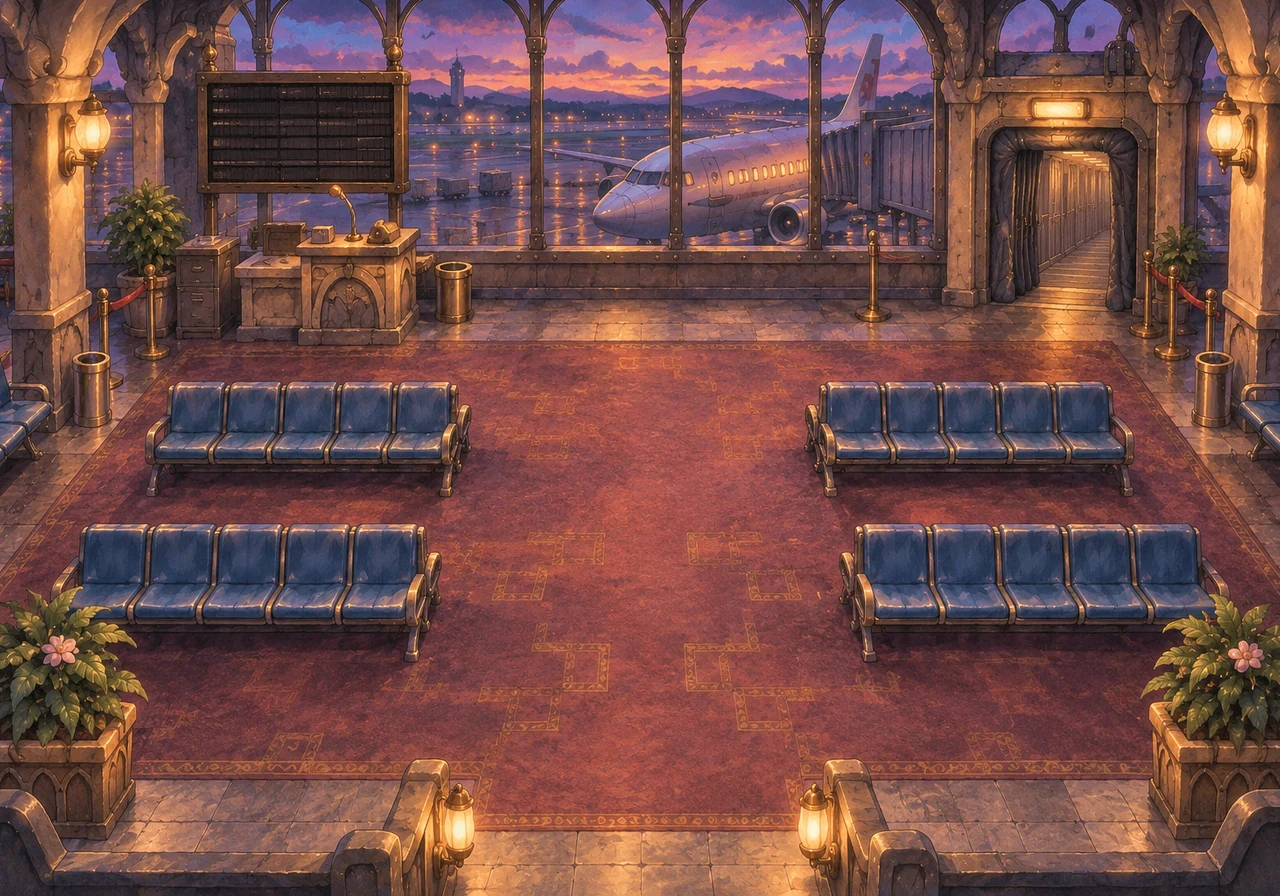
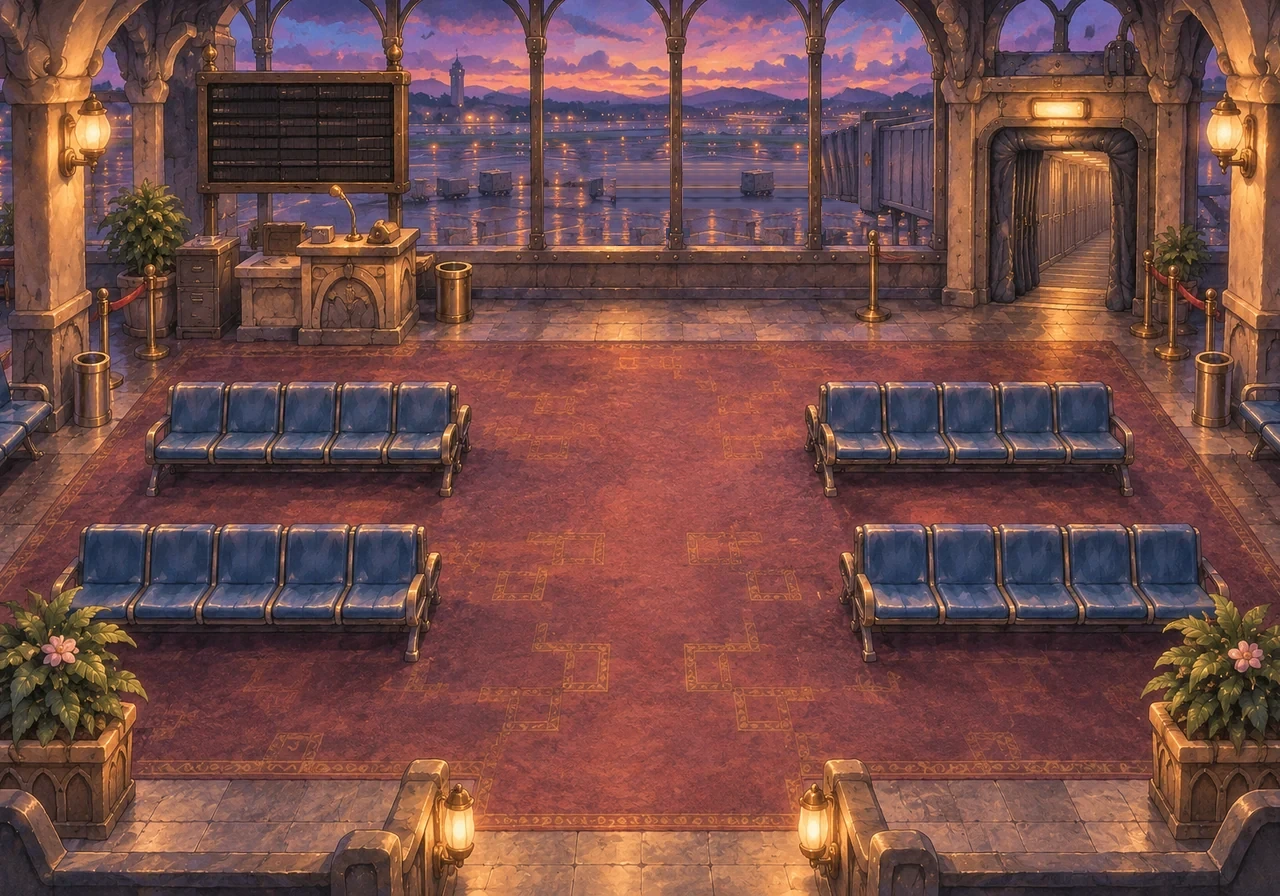
gatezero: Gate Zero window is empty and Flight Zero rolls away at the end of chapter 10
Kept the current painting (Tom's choice on t-gatezero-decide), painted the plane out,
plane and window frames are separate layers drawn under the people.

Claude-Session: https://claude.ai/code/session_01RXeukESVQibHd96DoCq68m

Changed region(s): [[0.4062, 0.0312, 0.7188, 0.2812]]

diff --git a/engine/plate.js b/engine/plate.js
@@ -1,7 +1,7 @@
 'use strict';
 // engine/plate.js — Painted "plate" scenes (32-bit look). A plate replaces the tile/house/object
 // drawing for one map; the tile grid stays as the invisible logic layer (collision, doors, exits, NPCs).
-const PLATES={ town:{src:'art/town.webp?v=square6',fgSrc:'art/town-fg.webp?v=towncut1',px:64,img:null,ready:false}, row:{src:'art/row.webp?v=row4',fgSrc:'art/row-fg.webp?v=row4',px:64,img:null,ready:false}, hollow:{src:'art/hollow.webp?v=hollow5',fgSrc:'art/hollow-fg.webp?v=hollow5',px:64,img:null,ready:false}, reeds:{src:'art/reeds.webp',px:64,img:null,ready:false}, amyhouse:{src:'art/amyhouse.webp?v=20261030',px:78,img:null,ready:false,square:true,fgSrc:'art/amyhouse-fg.webp?v=amyhouse3d'}, grands:{src:'art/grands.webp?v=20261030',px:78,img:null,ready:false,square:true,fgSrc:'art/grands-fg.webp?v=facing2'}, elliehouse:{src:'art/elliehouse.webp?v=20261030',px:78,img:null,ready:false,square:true}, sundial:{src:'art/sundial.webp',px:64,img:null,ready:false}, school:{src:'art/school.webp',px:64,img:null,ready:false}, cafetorium:{src:'art/cafetorium.webp',px:64,img:null,ready:false}, readroom:{src:'art/readroom.webp',px:64,img:null,ready:false}, stacks:{src:'art/stacks.webp',px:64,img:null,ready:false}, moonclub:{src:'art/moonclub.webp?v=moonclub1',fgSrc:'art/moonclub-fg.webp?v=moonclub1',px:64,img:null,ready:false}, dome:{src:'art/dome.webp?v=dome2',fgSrc:'art/dome-fg.webp?v=dome2',px:64,img:null,ready:false}, gatezero:{src:'art/gatezero.webp?v=airport1',fgSrc:'art/gatezero-fg.webp?v=airport1',px:64,img:null,ready:false}, library:{src:'art/library.webp?v=20261030',px:78,img:null,ready:false,square:true}, terminal:{src:'art/terminal.webp?v=airport1',fgSrc:'art/terminal-fg.webp?v=airport1',px:64,img:null,ready:false}, bakery:{src:'art/bakery.webp?v=20261030',px:78,img:null,ready:false,square:true}, greenhouse:{src:'art/greenhouse.webp?v=20261030',px:78,img:null,ready:false,square:true}, shop:{src:'art/shop.webp?v=20261030',px:78,img:null,ready:false,square:true}, observatory:{src:'art/observatory.webp?v=20261030',px:78,img:null,ready:false,square:true}, post:{src:'art/post.webp?v=20261030',px:78,img:null,ready:false,square:true}, tea:{src:'art/tea.webp?v=20261030',px:78,img:null,ready:false,square:true}, jpark:{src:'art/jpark.webp?v=jpark2',fgSrc:'art/jpark-fg.webp?v=jpark2',px:64,img:null,ready:false}, griffith:{src:'art/griffith.webp?v=griffith2',fgSrc:'art/griffith-fg.webp?v=griffith2',px:64,img:null,ready:false}, taxi:{src:'art/taxi.webp?v=20261030',px:78,img:null,ready:false,square:true}, blvd:{src:'art/blvd.webp?v=dtla12',fgSrc:'art/blvd-fg.webp?v=dtla12',px:64,img:null,ready:false} };
+const PLATES={ town:{src:'art/town.webp?v=square6',fgSrc:'art/town-fg.webp?v=towncut1',px:64,img:null,ready:false}, row:{src:'art/row.webp?v=row4',fgSrc:'art/row-fg.webp?v=row4',px:64,img:null,ready:false}, hollow:{src:'art/hollow.webp?v=hollow5',fgSrc:'art/hollow-fg.webp?v=hollow5',px:64,img:null,ready:false}, reeds:{src:'art/reeds.webp',px:64,img:null,ready:false}, amyhouse:{src:'art/amyhouse.webp?v=20261030',px:78,img:null,ready:false,square:true,fgSrc:'art/amyhouse-fg.webp?v=amyhouse3d'}, grands:{src:'art/grands.webp?v=20261030',px:78,img:null,ready:false,square:true,fgSrc:'art/grands-fg.webp?v=facing2'}, elliehouse:{src:'art/elliehouse.webp?v=20261030',px:78,img:null,ready:false,square:true}, sundial:{src:'art/sundial.webp',px:64,img:null,ready:false}, school:{src:'art/school.webp',px:64,img:null,ready:false}, cafetorium:{src:'art/cafetorium.webp',px:64,img:null,ready:false}, readroom:{src:'art/readroom.webp',px:64,img:null,ready:false}, stacks:{src:'art/stacks.webp',px:64,img:null,ready:false}, moonclub:{src:'art/moonclub.webp?v=moonclub1',fgSrc:'art/moonclub-fg.webp?v=moonclub1',px:64,img:null,ready:false}, dome:{src:'art/dome.webp?v=dome2',fgSrc:'art/dome-fg.webp?v=dome2',px:64,img:null,ready:false}, gatezero:{src:'art/gatezero.webp?v=gatezero1',fgSrc:'art/gatezero-fg.webp?v=airport1',px:64,img:null,ready:false}, library:{src:'art/library.webp?v=20261030',px:78,img:null,ready:false,square:true}, terminal:{src:'art/terminal.webp?v=airport1',fgSrc:'art/terminal-fg.webp?v=airport1',px:64,img:null,ready:false}, bakery:{src:'art/bakery.webp?v=20261030',px:78,img:null,ready:false,square:true}, greenhouse:{src:'art/greenhouse.webp?v=20261030',px:78,img:null,ready:false,square:true}, shop:{src:'art/shop.webp?v=20261030',px:78,img:null,ready:false,square:true}, observatory:{src:'art/observatory.webp?v=20261030',px:78,img:null,ready:false,square:true}, post:{src:'art/post.webp?v=20261030',px:78,img:null,ready:false,square:true}, tea:{src:'art/tea.webp?v=20261030',px:78,img:null,ready:false,square:true}, jpark:{src:'art/jpark.webp?v=jpark2',fgSrc:'art/jpark-fg.webp?v=jpark2',px:64,img:null,ready:false}, griffith:{src:'art/griffith.webp?v=griffith2',fgSrc:'art/griffith-fg.webp?v=griffith2',px:64,img:null,ready:false}, taxi:{src:'art/taxi.webp?v=20261030',px:78,img:null,ready:false,square:true}, blvd:{src:'art/blvd.webp?v=dtla12',fgSrc:'art/blvd-fg.webp?v=dtla12',px:64,img:null,ready:false} };
 PLATES.pier={src:'art/pier.webp?v=20261029',px:64,img:null,ready:false};
 PLATES.studio={src:'art/studio.webp?v=20261029',px:64,img:null,ready:false};
 PLATES.backlot={src:'art/backlot.webp?v=20261029',px:64,img:null,ready:false};
@@ -526,6 +526,7 @@ function plateLive(map,time) {
   if(map&&PLATE_SIGNS[map.id]) drawPlateSigns(PLATE_SIGNS[map.id]);
   if(map&&map.id==='hollow') { drawHollowSpot(); }
   if(map&&map.id==='griffith') drawGriffithSpot();
+  if(map&&map.id==='gatezero'&&typeof gatePlaneDraw==='function') gatePlaneDraw(time);   // Flight Zero outside the window until it rolls away (data/scenes.js)
   if(map&&map.id==='sundial') drawSundialSpot(map);
   if(map&&map.id==='stage7') drawStage7Spot(map);
   if(map&&map.id==='schoolyard') drawSchoolSpot(map);

diff --git a/data/scenes.js b/data/scenes.js
@@ -5143,6 +5143,29 @@ pressAction=function() {
 // Terminal Zero is dim until the clocks start (lamp light round Tom); Gate Zero shows Flight 0 through the window
 // until it pushes back and rolls away.
 const CH10_PLANE={t0:0};
+// Flight Zero outside the Gate Zero window. art/gatezero.webp is the room with the window empty (the apron, no plane); the plane (art/gatezero-plane.webp)
+// and the window frames and jet bridge that stand in front of it (art/gatezero-frame.webp) are drawn over it, same place and size as the first painting
+// (art px, plate 1280 x 896). While it leaves, the plane eases left behind the frames and is clipped to the window opening (it passes behind the board).
+// Drawn from plateLive (engine/plate.js), under the people.
+const GATE_PLANE_IMG={plane:null,frame:null,box:{plane:[516,31],frame:[524,49]}};
+function gatePlaneImgs() {
+  if(!GATE_PLANE_IMG.plane) { GATE_PLANE_IMG.plane=new Image(); GATE_PLANE_IMG.plane.src='art/gatezero-plane.webp?v=gatezero1'; GATE_PLANE_IMG.frame=new Image(); GATE_PLANE_IMG.frame.src='art/gatezero-frame.webp?v=gatezero1'; }
+  return GATE_PLANE_IMG.plane.complete&&GATE_PLANE_IMG.plane.naturalWidth&&GATE_PLANE_IMG.frame.complete&&GATE_PLANE_IMG.frame.naturalWidth;
+}
+function gatePlaneDraw(time) {
+  const gone=STORY.mode==='full'&&(STORY.chapter>10||!!flag('ch10-gone'));
+  const leaving=CH10_PLANE.t0?(performance.now()-CH10_PLANE.t0)/1000:0;
+  if(gone&&!(leaving>0&&leaving<4)) return;
+  if(!gatePlaneImgs()) return;
+  const s=T/64,c=gfx,dx=-leaving*leaving*46,[px,py]=GATE_PLANE_IMG.box.plane,[fx,fy]=GATE_PLANE_IMG.box.frame;
+  c.save(); c.beginPath(); c.rect(412*s,0,(940-412)*s,250*s); c.clip();
+  c.imageSmoothingEnabled=true; c.imageSmoothingQuality='high';
+  c.drawImage(GATE_PLANE_IMG.plane,(px+dx)*s,py*s,GATE_PLANE_IMG.plane.naturalWidth*s,GATE_PLANE_IMG.plane.naturalHeight*s);
+  c.restore();
+  c.save(); c.imageSmoothingEnabled=true; c.imageSmoothingQuality='high';
+  c.drawImage(GATE_PLANE_IMG.frame,fx*s,fy*s,GATE_PLANE_IMG.frame.naturalWidth*s,GATE_PLANE_IMG.frame.naturalHeight*s);
+  c.restore();
+}
 // Julian's walk at the end of chapter 10: out of the jet bridge (16,4), along the carpet in front of the seats (row 5), up to the podium's right side (7,4) and back.
 const CH10_COAT_PATH=[[16,5],[15,5],[14,5],[13,5],[12,5],[11,5],[10,5],[9,5],[8,5],[7,5],[7,4]];
 const CH10_COAT_PATH_BACK=[[7,5],[8,5],[9,5],[10,5],[11,5],[12,5],[13,5],[14,5],[15,5],[16,5],[16,4]];
@@ -5167,17 +5190,6 @@ STORY_MAPFX.push(time=>{
     c.fillStyle=g; c.fillRect(0,0,M.w*T,M.h*T);
   }
   if(id==='gatezero') {
-    const gone=STORY.mode==='full'&&(STORY.chapter>10||!!flag('ch10-gone'));
-    const leaving=CH10_PLANE.t0&&!gone?(performance.now()-CH10_PLANE.t0)/1000:0;
-    if(!plateFor(M)&&(!gone||leaving)) {
-      const dx=-leaving*leaving*40,y0=4,x0=3*T+dx;
-      c.save(); c.beginPath(); c.rect(T,0,(M.w-2)*T,T); c.clip();
-      rect(x0,y0+8,12*T,12,'#e8eaf4'); ellipse(x0+12*T,y0+14,12,6,'#e8eaf4'); rect(x0,y0+18,12*T,2,'#2f5fb0');
-      polygon([[x0+10,y0+8],[x0,y0-6],[x0+16,y0-6],[x0+30,y0+8]],'#2f5fb0');
-      for(let k=0;k<20;k++) rect(x0+44+k*16,y0+11,5,4,'#f2c75a');
-      if(Math.floor(time*2)%2) ellipse(x0+4,y0+2,2,2,'#e85a4a');
-      c.restore();
-    }
     if(STORY.mode==='full'&&STORY.chapter>=10&&(CH10_CARD.t0||flag('ch10-gone'))) {   // the card on the podium counter
       const x=5.5*T,y=3.86*T,w=Math.round(T*.34),h=Math.round(T*.2);
       c.save(); c.translate(x,y); c.rotate(-.12);

diff --git a/index.html b/index.html
@@ -1958,7 +1958,7 @@ html.landscape:not(.tablet):not(.duo) #battle.v2 .b2-x{font-size:17px}html.lands
 <script src="engine/club-render.js"></script>
 <script src="engine/terminal-render.js"></script>
 <script src="engine/infinity-render.js"></script>
-<script src="engine/plate.js?v=idea-checkart"></script>
+<script src="engine/plate.js?v=gatezero"></script>
 <script src="data/airport-behind.js?v=airport1"></script>
 <script src="engine/draw.js?v=cutpolish4b"></script>
 <script src="engine/intro.js?v=idea-welcomepage2"></script>
@@ -1971,7 +1971,7 @@ html.landscape:not(.tablet):not(.duo) #battle.v2 .b2-x{font-size:17px}html.lands
 <script src="engine/bench.js"></script>
 <script src="engine/tom-gone.js"></script>
 <script src="engine/benchcall.js"></script>
-<script src="data/scenes.js?v=reports-2026-11-20"></script>
+<script src="data/scenes.js?v=gatezero"></script>
 <script src="engine/closeup.js?v=ch1nodoor"></script>
 <script src="data/closeup-ch10.js?v=closeup2"></script>
 <script src="data/closeup-coinfinds.js?v=coinfinds1"></script>
@@ -2075,13 +2075,13 @@ html.landscape:not(.tablet):not(.duo) #battle.v2 .b2-x{font-size:17px}html.lands
 <script src="engine/emotions.js?v=fix-effectslook-2"></script>
 <script src="engine/script-edits.js?v=scripted2"></script><!-- Script Editor overlay: Tom's line edits applied before a scene plays (script.html) --><!-- mood faces and poses in story dialogue (batch 0: chapter 1) -->
 <script src="engine/tapwalk.js?v=bossbig1"></script><!-- tap to walk -->
-<script src="data/build-history.js?v=fix-battlelabpagetry-3"></script><!-- build names and times (tools/build_history.py) -->
+<script src="data/build-history.js?v=gatezero"></script><!-- build names and times (tools/build_history.py) -->
 <script src="engine/build-history.js?v=buildlog1"></script><!-- build label on the welcome screen and menu, tap for the build history -->
 <script src="engine/amber-spots.js?v=gem-canon08"></script><!-- orange blocks left behind are solid and answer A (amberspot1) -->
 <script src="engine/block-break.js?v=ch7t1"></script><!-- breaking an orange block: coin, cracks, colour ring, shrink-back, encounters off (ch6build stage 2) -->
 <script src="engine/scene-props.js?v=fix-heist1play-4"></script><!-- drawn stand-in props a scene can put on a map: the chart, Rose rolled up, the gold ball, bulbs (ch7build stage 2) -->
 <script src="engine/video-call.js?v=ch6s4"></script><!-- the video call at the end of chapter 6: Long Island seen from Tom's porch (ch6build stage 4) -->
-<script src="engine/main.js?v=fix-battlelabpagetry-3"></script>
+<script src="engine/main.js?v=gatezero"></script>
 <script src="engine/music.js"></script>
 <script src="data/songs.js"></script>
 <script src="engine/music-clips.js?v=adminvol1"></script>

diff --git a/tools/art-library/make-prompts.js b/tools/art-library/make-prompts.js
@@ -20,7 +20,7 @@ ENTRIES.push(require('./enemy-prompts.js').gridTest('grump', 'art/raw/enemies/te
 ENTRIES.push(require('./enemy-prompts.js').gridShort('grump', 'art/raw/enemies/test-one-mudling-stance-v1.png'));   // short-prompt A/B (11-05 15:50)   // one sheet, matte finish copied from an approved picture (11-05 15:30)
 ENTRIES.push(...[['mudling', 1], ['grump', 1], ['bigshake', 1]].map(([i, k]) => require('./enemy-prompts.js').buildOne(i, k)), require('./enemy-prompts.js').buildOne('mudling', 4, 'art/raw/enemies/test-one-mudling-stance-v1.png'));   // one pose per picture tests (11-05 14:55)   // test card: 2 x 2 grid over a soft underpainting (11-05 14:50)
 // One module per tab group, each exports { entries }. A module that does not exist yet is skipped.
-for (const m of ['party-prompts', 'party2-prompts', 'npc-prompts', 'enemy-prompts', 'area-prompts', 'room-prompts', 'dungeonfind-prompts', 'trail-prompts', 'bubble-prompts', 'ending-prompts', 'gate-prompts', 'battle-prompts', 'walk-sheet-prompts', 'title-prompts', 'portrait-prompts', 'flight-prompts', 'cathy-prompts', 'closeup-prompts', 'closeup2-prompts', 'gatezero-plane-prompts', 'tomride-prompts', 'tomstretch-prompts', 'tomintro-prompts', 'amber-prompts', 'ch01-prompts', 'ch02-05-prompts', 'ch06-prompts', 'ch07-prompts', 'talk-prompts', 'ch2fix-prompts', 'partybanner-prompts']) {
+for (const m of ['party-prompts', 'party2-prompts', 'npc-prompts', 'enemy-prompts', 'area-prompts', 'room-prompts', 'dungeonfind-prompts', 'trail-prompts', 'bubble-prompts', 'ending-prompts', 'gate-prompts', 'battle-prompts', 'walk-sheet-prompts', 'title-prompts', 'portrait-prompts', 'flight-prompts', 'cathy-prompts', 'closeup-prompts', 'closeup2-prompts', 'tomride-prompts', 'tomstretch-prompts', 'tomintro-prompts', 'amber-prompts', 'ch01-prompts', 'ch02-05-prompts', 'ch06-prompts', 'ch07-prompts', 'talk-prompts', 'ch2fix-prompts', 'partybanner-prompts']) {
   if (fs.existsSync(__dirname + '/' + m + '.js')) ENTRIES.push(...require('./' + m + '.js').entries);
 }
 // Every entry gets a `group` (the collapsible section inside its tab in art.html), derived by groups.js from its id and title. An entry that sets its own `group` keeps it.

diff --git a/engine/main.js b/engine/main.js
@@ -109,7 +109,7 @@ startSplash();
   const d=document.createElement('button');
   d.type='button'; d.id='build-stamp'; d.setAttribute('aria-label','Build history');
   // On an iPhone Duo the stamp also shows the page size and pose the game measured, so Tom can read them back (docs/DUO.md).
-  d.textContent='build fix-battlelabpagetry-3';
+  d.textContent='build gatezero';
   const build=d.textContent,stamp=()=>{ const w=typeof buildWhenLabel==='function'?buildWhenLabel(build.slice(6)).slice(2):'', duo=typeof duoMode!=='undefined'&&duoMode.device?window.innerWidth+'x'+window.innerHeight+(duoMode.open?' duo open':' duo folded'):'';
     d.textContent=build; for(const t of [w,duo]) if(t){ const s=document.createElement('small'); s.textContent=t; d.appendChild(s); } };
   window.BUILD_TAG=build.slice(6);

diff --git a/data/build-history.js b/data/build-history.js
@@ -1,5 +1,6 @@
 // Generated by tools/build_history.py. Do not edit by hand. Newest first.
 const BUILD_HISTORY=[
+{"tag":"gatezero","at":"2026-11-20T10:22:58-08:00","what":"Gate Zero window is empty and Flight Zero rolls away at the end of chapter 10"},
 {"tag":"fix-battlelabpagetry-3","at":"2026-11-20T18:20:10+00:00","what":"The Battle Lab page has its own icon and its fights sit in collapsed categories and subcategories"},
 {"tag":"fix-effectslook-2","at":"2026-11-20T18:15:30+00:00","what":"Wince is removed everywhere; the speed difference needs one example"},
 {"tag":"reports-2026-11-20","at":"2026-11-20T18:14:29+00:00","what":"Rose no longer shows twice when she jumps off Tom's shoulders; Hi, Mom! line shortened; the family reacts in the kitchen scene"},

diff --git a/tools/gatezero_plane_test.py b/tools/gatezero_plane_test.py
@@ -1,0 +1,58 @@
+# Gate Zero window (gatezeroplane1): the plate is the empty apron, Flight Zero and the frames in front of it are drawn over it.
+# Checks: the plane shows before chapter 10 ends, rolls out of the window (mid-roll), is gone after ch10-gone, in portrait and landscape.
+# Shots: tools/shots/gatezeroplane-*.png.  Usage: python3 tools/gatezero_plane_test.py
+import threading, http.server, socketserver, functools, os, sys
+from playwright.sync_api import sync_playwright
+HERE=os.path.dirname(os.path.abspath(__file__)); ROOT=os.path.dirname(HERE)
+SHOTS=os.path.join(HERE,'shots'); os.makedirs(SHOTS,exist_ok=True)
+class Q(http.server.SimpleHTTPRequestHandler):
+    def log_message(self,*a): pass
+socketserver.TCPServer.allow_reuse_address=True
+srv=socketserver.TCPServer(('127.0.0.1',0),functools.partial(Q,directory=ROOT)); port=srv.server_address[1]
+threading.Thread(target=srv.serve_forever,daemon=True).start()
+errs=[]; fails=[]
+def check(name,ok):
+    print(('ok   ' if ok else 'FAIL ')+name)
+    if not ok: fails.append(name)
+def skip_intro(pg,n=500):
+    for i in range(n):
+        if not pg.evaluate("()=>intro.active||dialog.active||!!transition"): return True
+        pg.keyboard.press('Enter'); pg.wait_for_timeout(80)
+    return False
+def shot(pg,n):
+    pg.evaluate("()=>{ const d=document.querySelector('#dialog,.dialog'); }")
+    pg.screenshot(path=os.path.join(SHOTS,f'gatezeroplane-{n}.png'))
+def stand(pg,x=11,y=5):
+    skip_intro(pg)
+    pg.evaluate(f"()=>{{ player.x={x}; player.y={y}; player.facing='up'; player.move=null; placeFollowers(); camera.snap=true; }}"); pg.wait_for_timeout(500)
+def roll_at(pg,sec):
+    pg.evaluate(f"()=>{{ CH10_PLANE.t0=performance.now()-{int(sec*1000)}; }}"); pg.wait_for_timeout(120)
+with sync_playwright() as pw:
+    kw={'args':['--headless=new','--no-proxy-server']}
+    if os.environ.get('CHROMIUM'): kw['executable_path']=os.environ['CHROMIUM']
+    br=pw.chromium.launch(**kw); pg=br.new_page(viewport={'width':430,'height':860})
+    pg.on('pageerror',lambda e: errs.append(str(e))); pg.on('console',lambda m: errs.append(m.text) if m.type=='error' else None)
+    pg.add_init_script("document.addEventListener('DOMContentLoaded',()=>{ const st=document.createElement('style'); st.textContent='#dialog{display:none!important}'; document.head.appendChild(st); });")
+    pg.goto(f'http://127.0.0.1:{port}/index.html'); pg.wait_for_function('()=>window.__LE&&window.__LE.b2Start'); pg.wait_for_timeout(1500)
+    pg.evaluate("()=>{ splash.active=false; document.getElementById('splash').hidden=true; window.__LE.chapterJump(10); }"); pg.wait_for_timeout(2500)
+    skip_intro(pg); pg.evaluate("()=>window.__LE.go('gatezero')"); pg.wait_for_timeout(1800)
+    skip_intro(pg); pg.wait_for_timeout(500)
+    pg.evaluate("()=>{ worlds.gatezero.npcs.length=0; }")   # the Unread stands in front of the window; the test looks at the window only
+    for _ in range(3): skip_intro(pg); pg.wait_for_timeout(300)
+    check('in Gate Zero, painted plate drawn',pg.evaluate("()=>currentMap.id==='gatezero'&&!!plateFor(currentMap)"))
+    pg.wait_for_function("()=>gatePlaneImgs()",timeout=8000)
+    check('plane layers loaded',pg.evaluate("()=>!!gatePlaneImgs()"))
+    pg.evaluate("()=>{ CH10_PLANE.t0=0; }")
+    for orient,vp in (('portrait',{'width':430,'height':860}),('landscape',{'width':860,'height':430})):
+        pg.set_viewport_size(vp); pg.wait_for_timeout(700); stand(pg,11,5 if orient=='portrait' else 3)
+        pg.evaluate("()=>{ CH10_PLANE.t0=0; }"); pg.wait_for_timeout(150); shot(pg,orient+'-1-rest')
+        roll_at(pg,1.3); shot(pg,orient+'-2-rolling')
+        roll_at(pg,2.4); shot(pg,orient+'-3-leaving')
+        roll_at(pg,3.9); shot(pg,orient+'-4-out')
+        pg.evaluate("()=>{ setFlag('ch10-gone',true); CH10_PLANE.t0=0; }"); pg.wait_for_timeout(200); shot(pg,orient+'-5-gone')
+        check(orient+': plane not drawn once gone',pg.evaluate("()=>{ const gone=STORY.mode==='full'&&(STORY.chapter>10||!!flag('ch10-gone')); return gone; }"))
+        pg.evaluate("()=>{ setFlag('ch10-gone',false); }")
+    check('no page errors',not errs)
+    if errs: print(errs[:5])
+    br.close()
+print('FAILS:',fails); sys.exit(1 if fails else 0)

diff --git a/docs/CHANGES.md b/docs/CHANGES.md
@@ -1,3 +1,13 @@
+## gatezero (2026-11-20): Gate Zero window is empty and Flight Zero rolls away at the end of chapter 10
+
+Tom (11-20, t-gatezero-decide): "Keep the current painting and have Claude remove the painted plane by editing it". The two Art Library pictures (noplane-v1, plane-v1) were not used: wrong size (1248 x 832), window frames and jet bridge moved, a different jet.
+
+- `art/gatezero.webp` is now the approved painting with the plane painted out (same 1280 x 896, nothing else moved): the apron behind it is built from the painting's own apron and sky, the window bars and the jet bridge are untouched. New `art/gatezero-plane.webp` (the plane cut out of the painting, its rear continued behind the bridge) and `art/gatezero-frame.webp` (the three window bars and the jet bridge, which stand in front of it). At rest the three layers match the old painting.
+- `gatePlaneDraw` (data/scenes.js, called from `plateLive`) draws the plane under the frames until `ch10-gone`; when `CH10_PLANE.t0` is set it eases left (about 3 s), clipped to the window opening so it passes behind the departures board. The old code-drawn plane is removed (it never drew once a plate existed, so the painted plane never left before).
+- Purged: the two Art Library entries `room-gatezero-noplane` and `room-gatezero-plane` (retired ids, `data/art-prompts.json`, `gatezero-plane-prompts.js`) and their pictures in `art/raw/rooms/`.
+- Test: `python3 tools/gatezero_plane_test.py` (portrait and landscape, at rest, rolling, leaving, gone; shots `tools/shots/gatezeroplane-*.png`).
+- Known (fact): `tools/art-library/make-prompts.js` fails at HEAD in `npc-prompts.js` (`rgb` of an undefined colour); not touched here, so `data/art-prompts.json` was edited by hand for the two removed entries.
+
 ## fix-battlelabpagetry-3 (2026-11-20): The Battle Lab page has its own icon and its fights sit in collapsed categories and subcategories
 
 Tom (11-20, on t-battlelabpagetry): "battle lab should have its own unique favicon. now that all buttons are exposed as one click, the page needs better categories and subcategories, with expand collapse behavior for both. all should be collapsed by default". Fact: the icon was a gold star on navy, close to Admin's gold gear on navy. It is now crossed swords on dark red (`icon-battlelab-180.png`, `icon-battlelab-32.png`, tag `?v=battlelab3`). `battle-lab.html` now shows three categories (New battle system, Tests and reviews, Boss fights), each with subcategories (chapters 1 to 4, chapter 1 review, clip tests, tryouts, boss fights in fives); every one is closed on load and opens and closes on a tap, with a count on each. Still one tap to start a fight once its group is open. Test: `tools/admin_hub_test.py` (closed by default, open and close, icon differs from Admin's).
